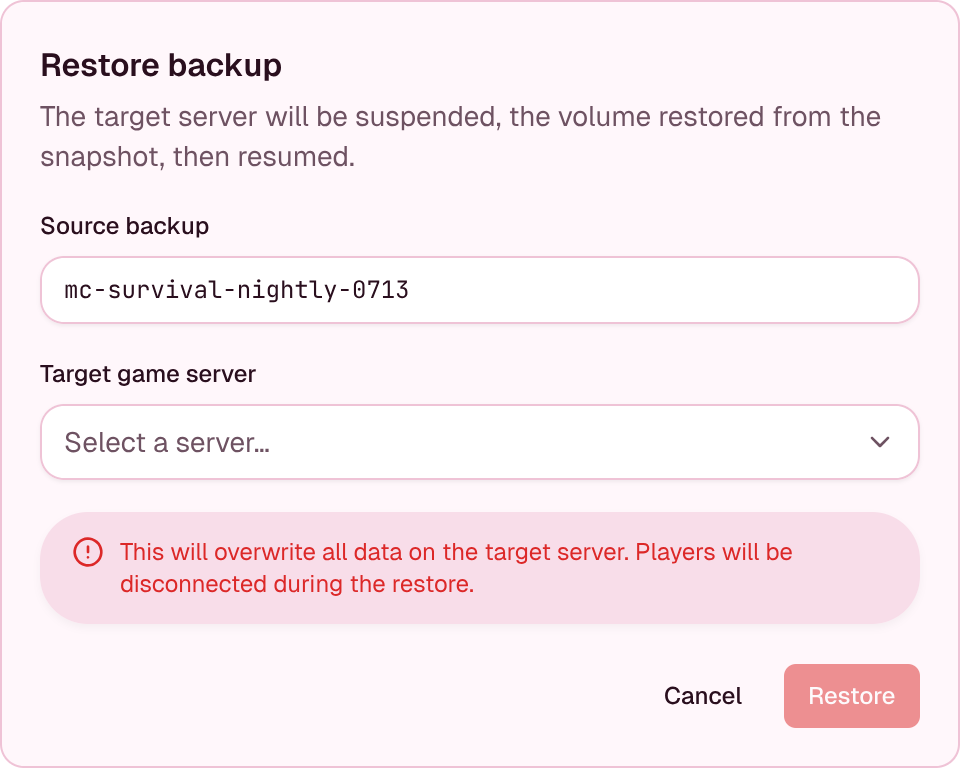
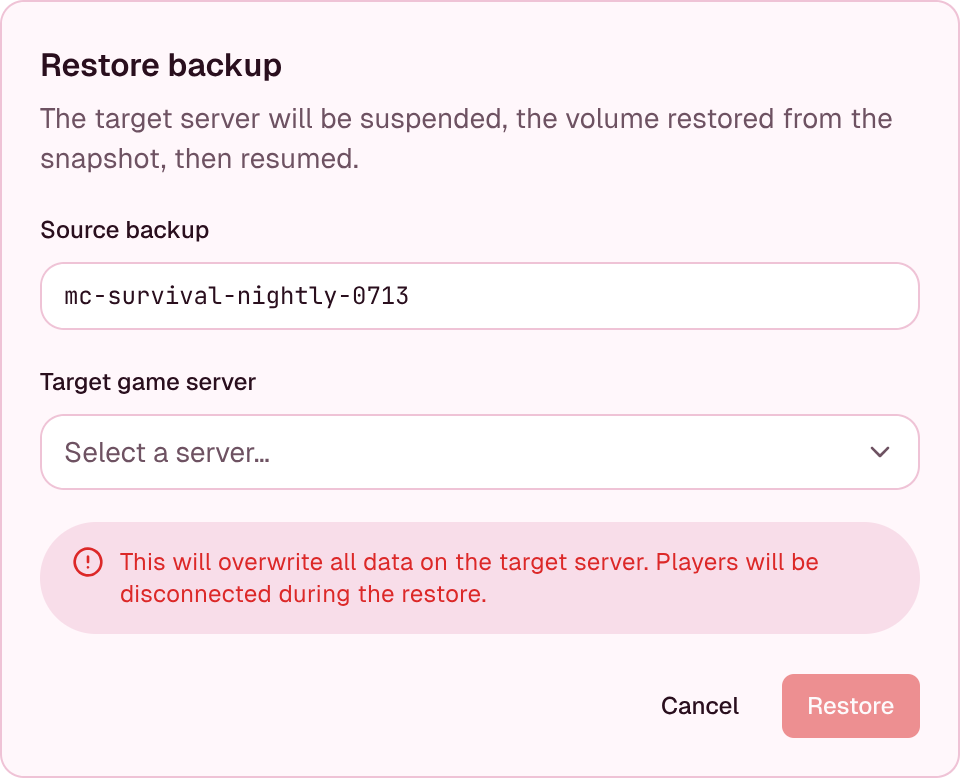
design: round-7 rulings for Invite user, Reset password, Restore backup, Confirm mapping
Design follows the app where the maintainer chose it:
- NLDDv: description wraps before "invite later." like Chrome; small
  letterSpacing on its text so line lengths match Chrome; input values in
  $field/placeholder.
- MaoHP: input value in $field/placeholder.
- E9EEv0: label rows 20px, description top padding 5, letterSpacing on
  the description and alert text, footer buttons 1px wider, no field or
  alert shadows, alert corner radius 28.
- Kp48V: warning text letterSpacing 0.18; confirm button 142 wide.
All edits are instance overrides; x3beP, WwNlX and f7KBn are unchanged.

Claude-Session: https://claude.ai/code/session_01FkBgFtudHfww59zAMiGEJr

diff --git a/design-export/MANIFEST.md b/design-export/MANIFEST.md
@@ -1685,3 +1685,22 @@ The following frames keep their existing snapshots and are **not** part of this 
 **Context & next steps:**
 
 This pass ensures all 346 exported nodes reflect the current saved document state as of 2026-09-18. The 183 newly exported HeroUI base components provide the complete, versioned snapshot of the component library that downstream design work and code implementation reference. All subsequent design modifications (feature slices, design reviews, bug fixes) will follow the existing export pattern: touch a node → export that node + all screens referencing it → commit the updated JSON/PNG in the same changeset.
+
+## Incremental export 2026-09-19 — round-7 letterSpacing/lineHeight/shadow rulings re-export (NLDDv, MaoHP, E9EEv0, Kp48V)
+
+Re-export of four dialog frames after round-7 per-issue Pencil edits (letterSpacing on labels/values/footer buttons, `$field/placeholder` fills, `lineHeight` on E9EEv0 labels, `ABbjS` padding, `TH6mC` warning-box corner radius and zero-alpha shadow overrides on `mazee`/`D5Vwg2`/`TH6mC`, `SBdeH`/`V7HYp`/`aEe0m` width bumps). Full detail of the per-node edits is in round7-briefs.json's "design" area; this entry only records the re-export step, which a prior session in this branch had explicitly skipped ("no export was performed (per instructions)") despite Rule 1 requiring it.
+
+| ID | Notes |
+|---|---|
+| `NLDDv` | Invite User dialog — description two-line wrap + letterSpacing 0.11; 5 field labels + select value + 4 input placeholders + footer buttons get letterSpacing 0.07–0.1; input placeholders' fill changed from `#5C5C5C` to `$field/placeholder`. |
+| `MaoHP` | Reset Password dialog — `YgQBa/PJERm` placeholder fill set to `$field/placeholder`. |
+| `E9EEv0` | Restore Backup dialog — `MIgc1`/`eN292` label lineHeight 1.6667; `ABbjS` padding `[5,0,0,0]`; `qzcst` letterSpacing 0.09; `TH6mC/CotwO` letterSpacing 0.2; `SBdeH` width 65, `V7HYp` width 69; zero-alpha outer-shadow override on `mazee`, `D5Vwg2`, and `TH6mC`; `TH6mC` cornerRadius 28. |
+| `Kp48V` | Confirm Admin Mapping dialog — `F1pyxJ` warning-desc letterSpacing 0.18 (forced line breaks preserved); `aEe0m` width 142. |
+
+**Export method & validation:**
+
+- **JSON:** `Get(id, {depth: 20})` via the Pencil `execute` tool for each id, `JSON.stringify`'d in the tool response and written with `json.dump(indent=2, ensure_ascii=False)` + trailing newline — matches the existing files' formatting convention. Zero `"..."` elision markers; `python3 -m json.tool` passes on all four.
+- **Screenshots:** `export_nodes` batch PNG export at 2× scale for all four ids in one call — `NLDDv.png` 960×1026, `MaoHP.png` 960×424, `E9EEv0.png` 960×778, `Kp48V.png` 880×640, all valid non-empty PNGs with real pixel dimensions.
+- **Content check:** unique body-text greps each returned exactly 1 hit in their own file and 0 elsewhere: `"invite later"` → NLDDv; `"need to sign in again"` → MaoHP; `"will be suspended, the volume restored"` → E9EEv0; `"Ensure the mapped group"` → Kp48V.
+- **No `.pen` file was Read/Grep/cat/sed** — all access via Pencil MCP `execute`/`export_nodes`, per Rule 2.
+- **No commit performed** — per this task's explicit instruction not to commit.
